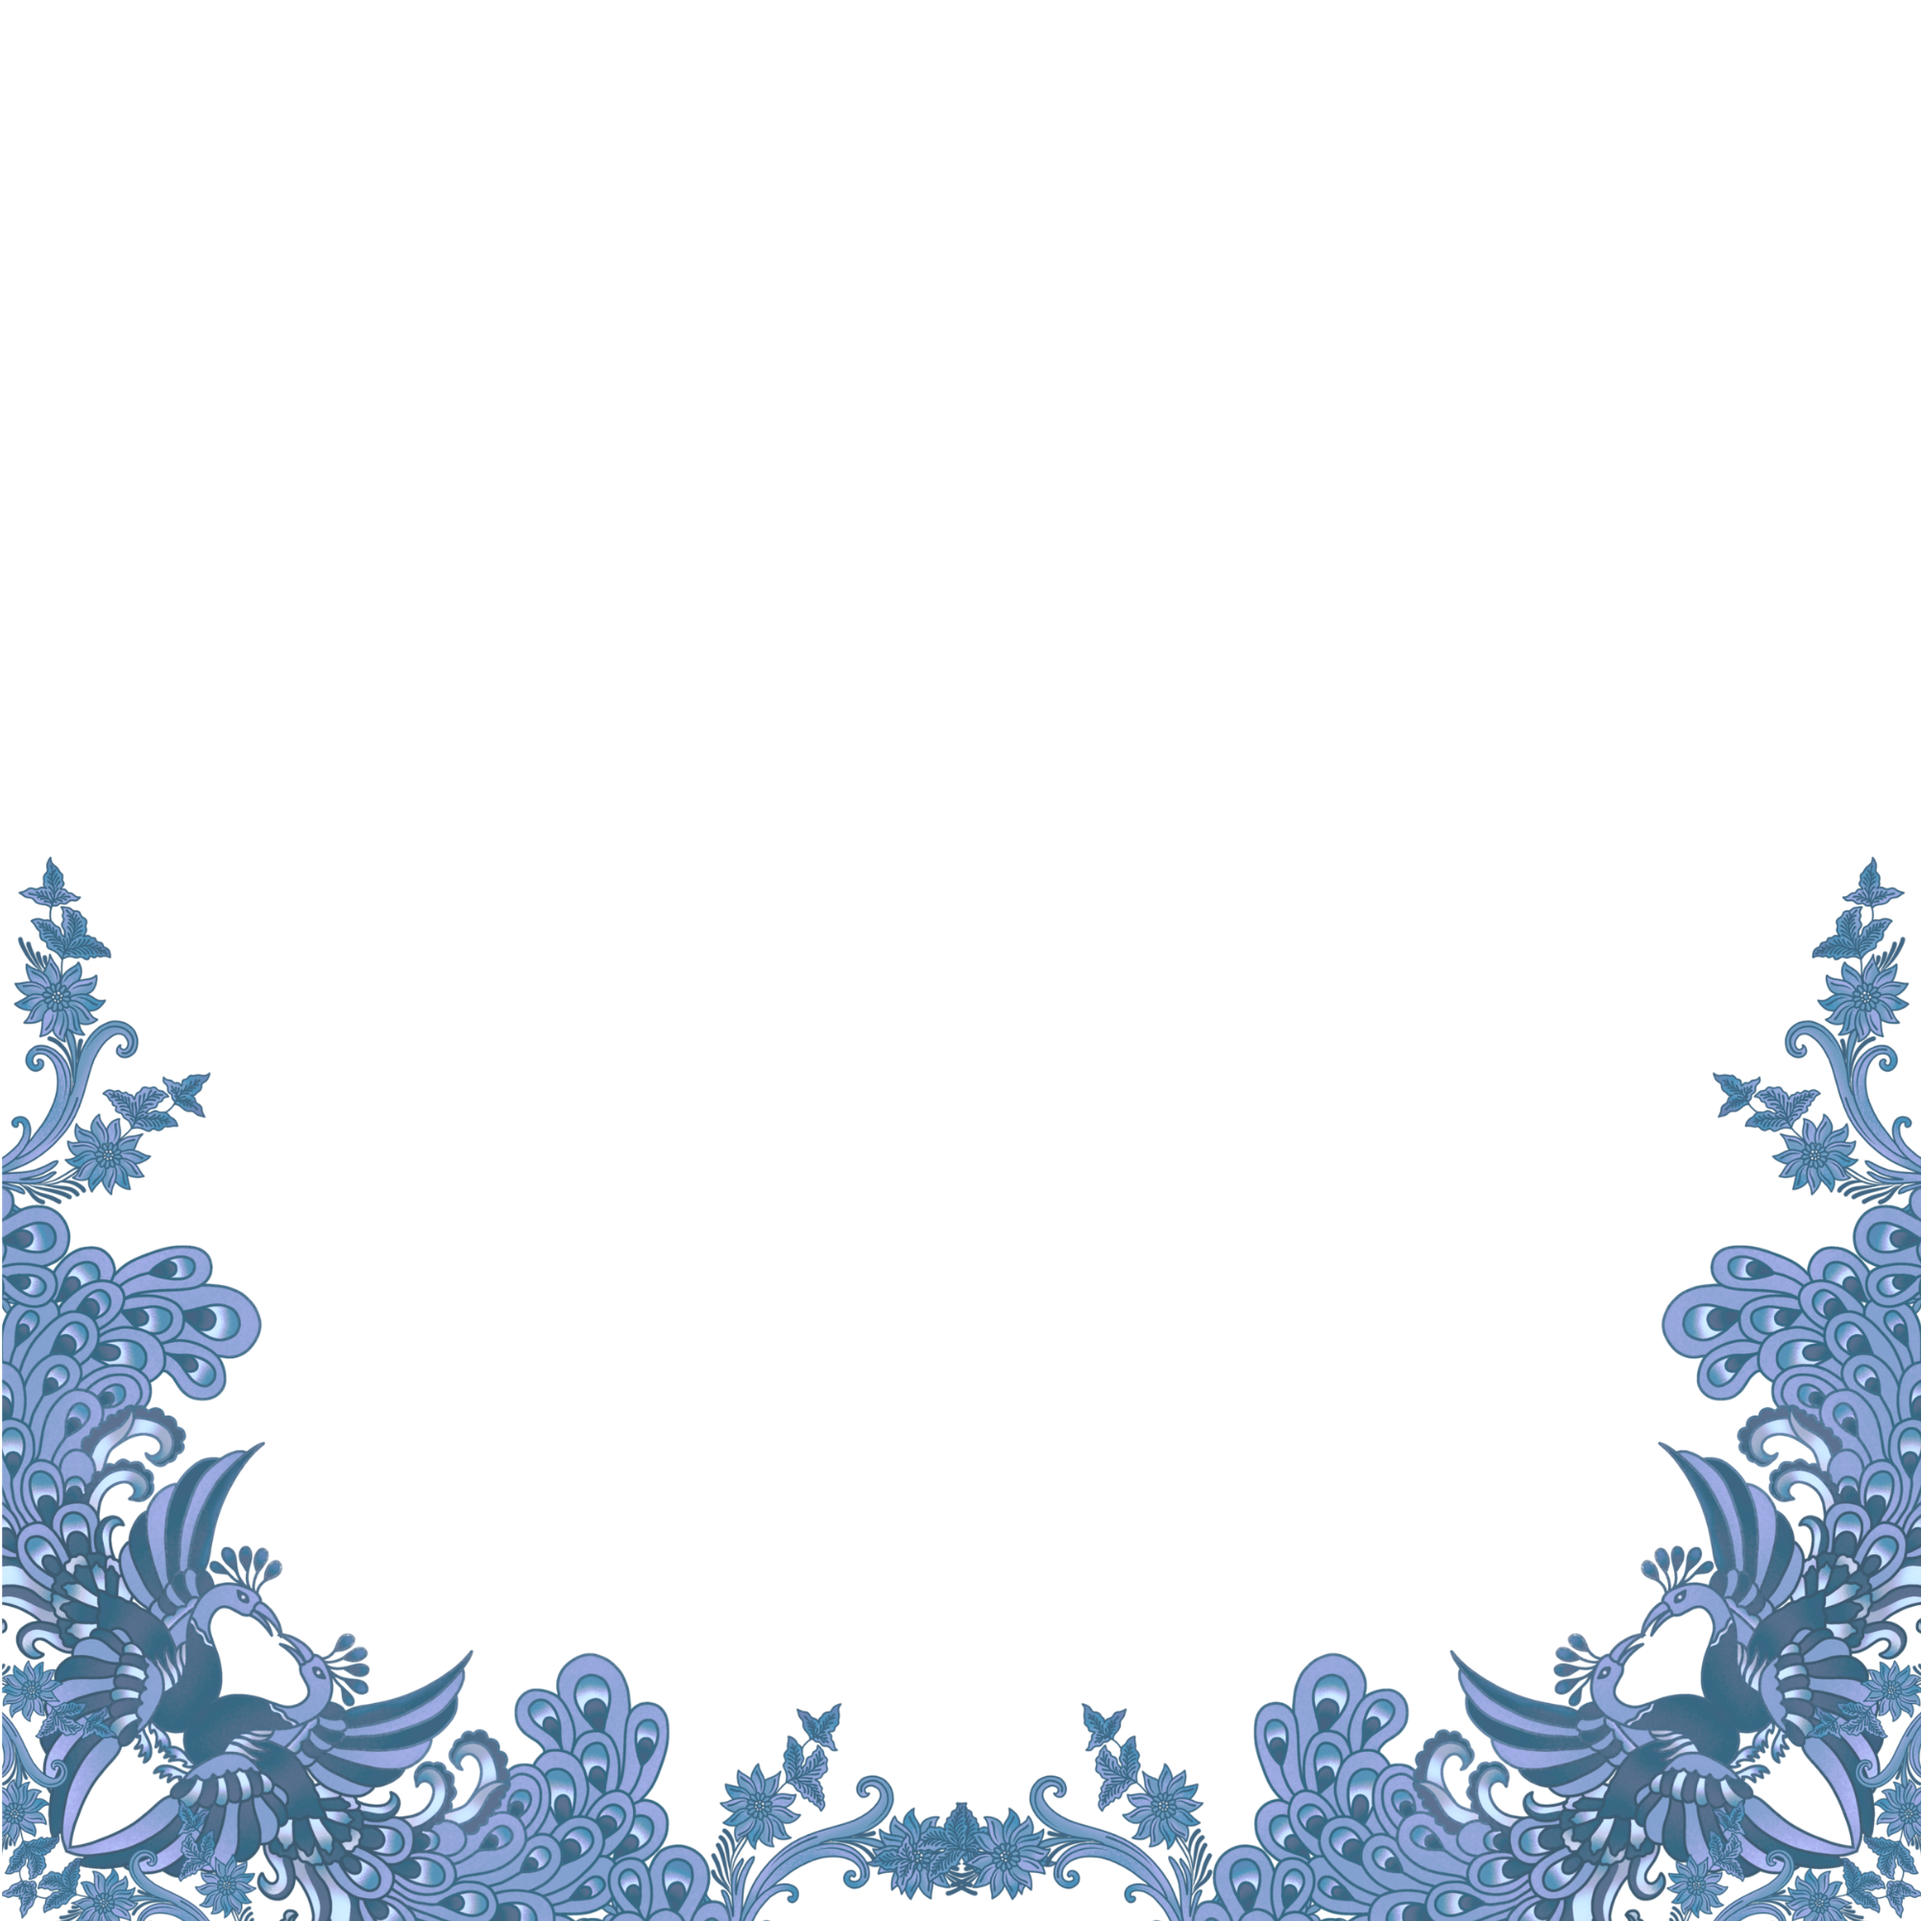
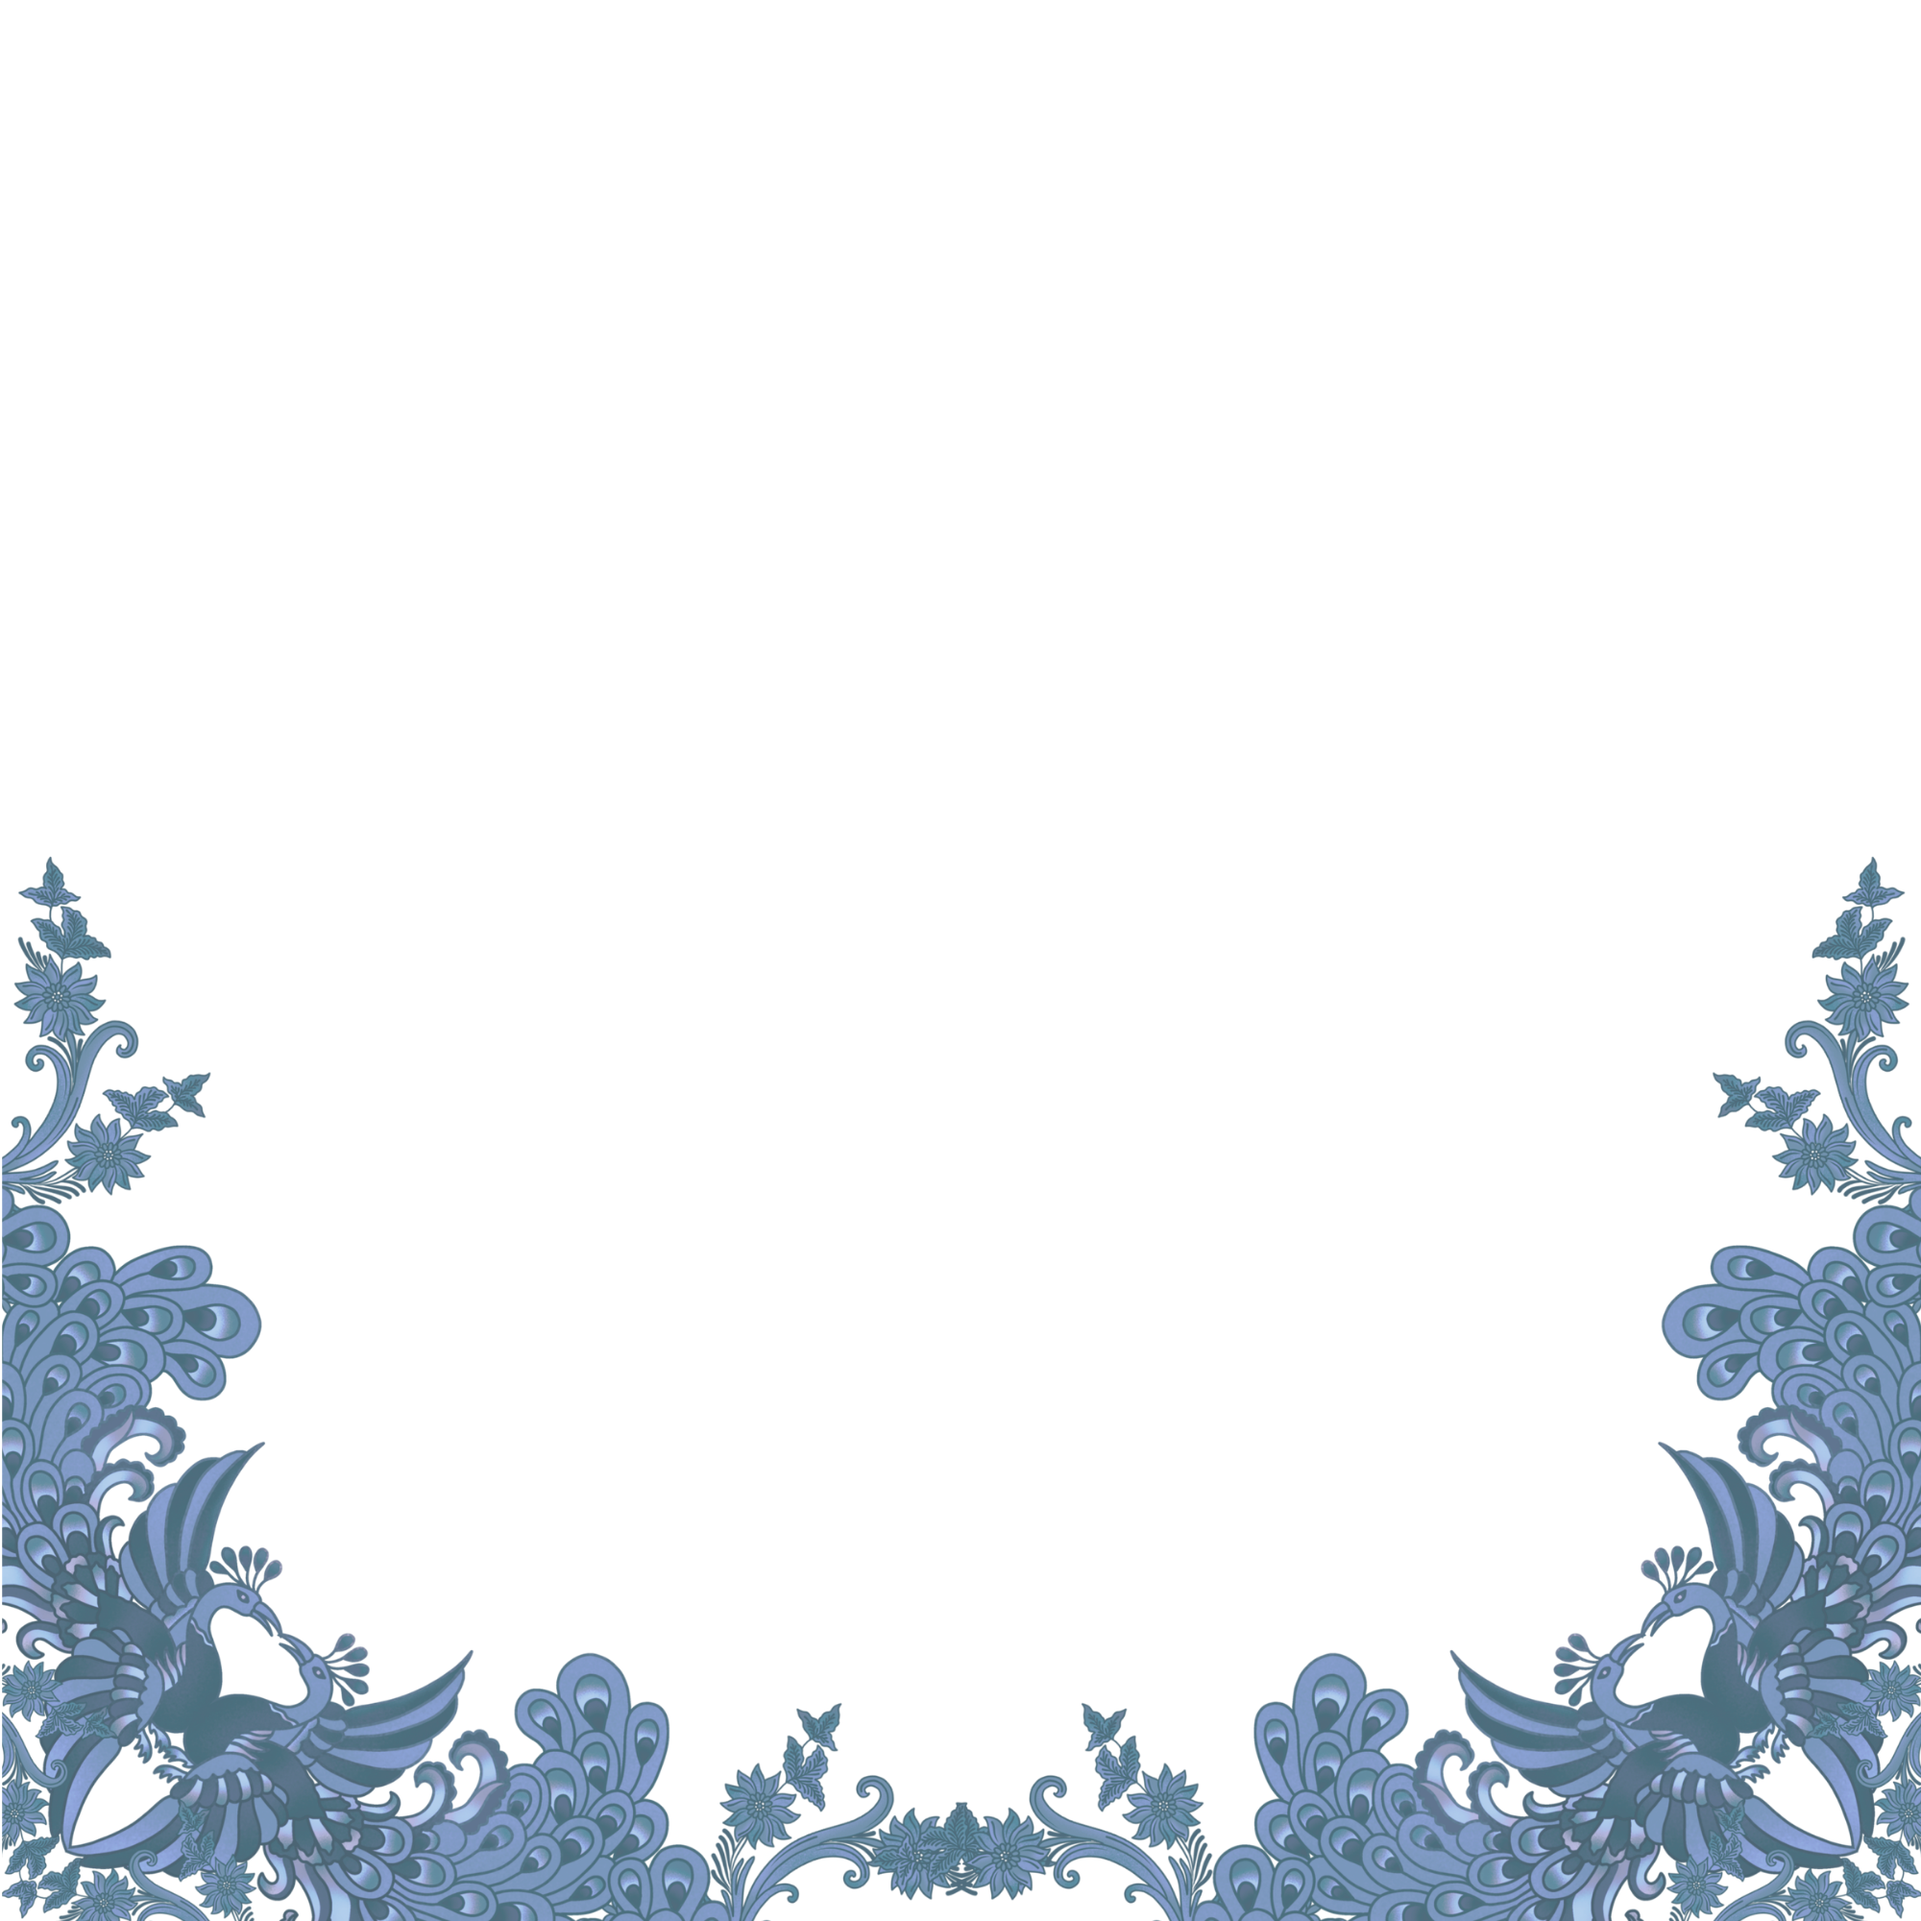
Update v.1.2.7

diff --git a/app/selviana-dan-eko/page.tsx b/app/selviana-dan-eko/page.tsx
@@ -252,12 +252,64 @@ function WeddingContent() {
       <AnimatePresence>
         {!isOpened && (
           <motion.div exit={{ opacity: 0, transition: { duration: 1.2, delay: 0.4 } }} className="fixed inset-0 z-[60] flex flex-col items-center justify-center overflow-hidden bg-[#F9F8F3]">
-            <img src="/images/background.png" alt="bg-cover" className="absolute inset-0 w-full h-full object-cover mix-blend-multiply opacity-60 z-0 pointer-events-none" />
+            
+            {/* Latar Belakang Dasar - FIX UNTUK PC */}
+            <img src="/images/background.png" alt="bg-cover" className="absolute top-1/2 left-1/2 -translate-x-1/2 -translate-y-1/2 w-full h-full md:w-[100vh] md:h-[100vw] md:-rotate-90 object-cover mix-blend-multiply opacity-60 z-0 pointer-events-none" />
+            
+            {/* 3 ASSET BARU UNTUK COVER DEPAN */}
+            
+            {/* Cloud 1 - Awan Atas */}
+            <motion.img 
+              src="/images/front-cloud1.png" 
+              alt="Front Cloud 1" 
+              initial={{ opacity: 0, y: -40 }}
+              animate={{ opacity: 0.40, y: 0 }}
+              exit={{ y: "-100vh", opacity: 0, transition: { duration: 1.5, ease: [0.76, 0, 0.24, 1] } }} 
+              className="absolute top-0 -left-[15vw] md:left-0 w-[130vw] md:w-full max-w-none md:max-w-full object-cover object-top origin-top z-[2] pointer-events-none" 
+            />
+            
+            {/* Mount - Gunung Kanan */}
+            <motion.img 
+              src="/images/front-mount.png" 
+              alt="Front Mount" 
+              initial={{ opacity: 0, x: 20 }}
+              animate={{ opacity: 0.80, x: 0 }}
+              exit={{ x: "100vw", opacity: 0, transition: { duration: 1.5, ease: [0.76, 0, 0.24, 1] } }} 
+              className="absolute top-[30%] md:top-[15%] right-[-30%] md:right-[0%] w-[120vw] md:w-[45vw] md:max-w-[700px] max-w-none object-contain z-[3] pointer-events-none drop-shadow-lg" 
+            />
+
+            {/* Cloud 2 - Awan Bawah */}
+            <motion.img 
+              src="/images/front-cloud2.png" 
+              alt="Front Cloud 2" 
+              initial={{ opacity: 0, y: 40 }}
+              animate={{ opacity: 0.40, y: 0 }}
+              exit={{ y: "100vh", opacity: 0, transition: { duration: 1.5, ease: [0.76, 0, 0.24, 1] } }} 
+              className="absolute bottom-0 -left-[15vw] md:left-0 w-[130vw] md:w-full max-w-none md:max-w-full object-cover object-bottom origin-bottom z-[4] pointer-events-none" 
+            />
+
+            {/* BINGKAI ATAS & BAWAH */}
+            {/* md:-top-[15vh] akan menarik gambar naik khusus di PC */}
+            <motion.img 
+              src="/images/front-top.png" 
+              alt="front-top" 
+              exit={{ y: "-100vh", transition: { duration: 1.5, ease: [0.76, 0, 0.24, 1] } }} 
+              className="absolute top-0 md:-top-[25vh] lg:-top-[40vh] left-0 w-full min-w-[100vw] object-cover md:object-contain object-top drop-shadow-sm z-[5] pointer-events-none" 
+            />
+            {/* md:-bottom-[15vh] akan menarik gambar turun khusus di PC */}
+            <motion.img 
+              src="/images/front-bot.png" 
+              alt="front-bot" 
+              exit={{ y: "100vh", transition: { duration: 1.5, ease: [0.76, 0, 0.24, 1] } }} 
+              className="absolute bottom-0 md:-bottom-[25vh] lg:-bottom-[40vh] left-0 w-full min-w-[100vw] object-cover md:object-contain object-bottom drop-shadow-sm z-[5] pointer-events-none" 
+            />
+
+            {/* Asset Ornamen Utama (Gunungan Tengah) */}
             <div className="absolute inset-0 max-w-[48rem] mx-auto pointer-events-none z-10">
-              <motion.img src="/images/front-top.png" alt="front-top" exit={{ y: "-100vh", transition: { duration: 1.5, ease: [0.76, 0, 0.24, 1] } }} className="absolute top-0 left-0 w-full object-contain object-top drop-shadow-sm" />
-              <motion.img src="/images/front-bot.png" alt="front-bot" exit={{ y: "100vh", transition: { duration: 1.5, ease: [0.76, 0, 0.24, 1] } }} className="absolute bottom-0 left-0 w-full object-contain object-bottom drop-shadow-sm" />
               <motion.img src="/images/main-front.png" alt="main-front" initial={{ x: "-50%", scale: 1, opacity: 1 }} animate={{ x: "-50%", scale: 1, opacity: 1 }} exit={{ x: "-50%", scale: 2.5, opacity: 0, filter: "blur(10px)", transition: { duration: 1.2, ease: "easeInOut" } }} className="absolute top-[18%] md:top-[15%] left-1/2 w-[75vw] sm:w-[60vw] md:w-[22rem] lg:w-[26rem] object-contain" />
             </div>
+            
+            {/* Teks Undangan & Tombol Buka */}
             <motion.div exit={{ y: 50, opacity: 0, transition: { duration: 0.8, ease: "easeIn" } }} className="absolute bottom-[8%] md:bottom-[6%] z-20 text-center px-4 md:px-6 flex flex-col items-center w-full max-w-xl mx-auto">
               <p className="tracking-[0.3em] text-[9px] md:text-xs uppercase mb-2 md:mb-3 text-slate-500 font-medium">The Wedding Of</p>
               <h1 className="font-serif text-3xl sm:text-4xl md:text-6xl mb-4 md:mb-6 text-slate-800 drop-shadow-sm">{weddingData.bride.nickname} <span className="font-script text-slate-400 mx-0.5 md:mx-1">&</span> {weddingData.groom.nickname}</h1>
@@ -279,7 +331,11 @@ function WeddingContent() {
         {/* HERO SECTION - Full Screen */}
         <section id="home" className="relative min-h-screen flex flex-col items-center justify-center text-center px-4 md:px-6 py-20">
            <FadeUp>
-             <p className="font-script text-3xl md:text-5xl text-slate-600 mb-2">You're Invited</p>
+             <p className="font-script text-3xl md:text-5xl text-slate-600 mb-1 md:mb-2">You're Invited</p>
+             
+             {/* Teks Baru yang Ditambahkan */}
+             <p className="tracking-[0.3em] text-[9px] md:text-xs uppercase mb-6 md:mb-8 text-slate-500 font-medium">To The Wedding Of</p>
+             
              <div className="flex flex-col md:flex-row items-center justify-center gap-1 md:gap-6">
                <h2 className="font-serif text-4xl sm:text-5xl md:text-7xl text-slate-800">{weddingData.bride.nickname}</h2>
                <span className="font-script text-3xl sm:text-4xl md:text-5xl text-slate-400">&</span>
@@ -461,7 +517,7 @@ function WeddingContent() {
               <Gift className="mx-auto text-slate-400 mb-4 md:mb-6 w-6 h-6 md:w-8 md:h-8" strokeWidth={1} />
               <h2 className="font-serif text-2xl md:text-4xl text-slate-800 mb-3 md:mb-4">Wedding Gift</h2>
               <p className="text-slate-600 mb-8 md:mb-10 text-[11px] md:text-sm leading-relaxed px-2">
-                Bagi yang ingin memberikan tanda kasih untuk kami, dapat melalui nomor rekening di bawah ini:
+                Tanpa mengurangi rasa hormat, bagi Bapak/Ibu/Saudara/i yang ingin memberikan tanda kasih untuk kami, dapat melalui:
               </p>
               
               <div className="grid gap-4 md:gap-6 grid-cols-1 md:grid-cols-2">
